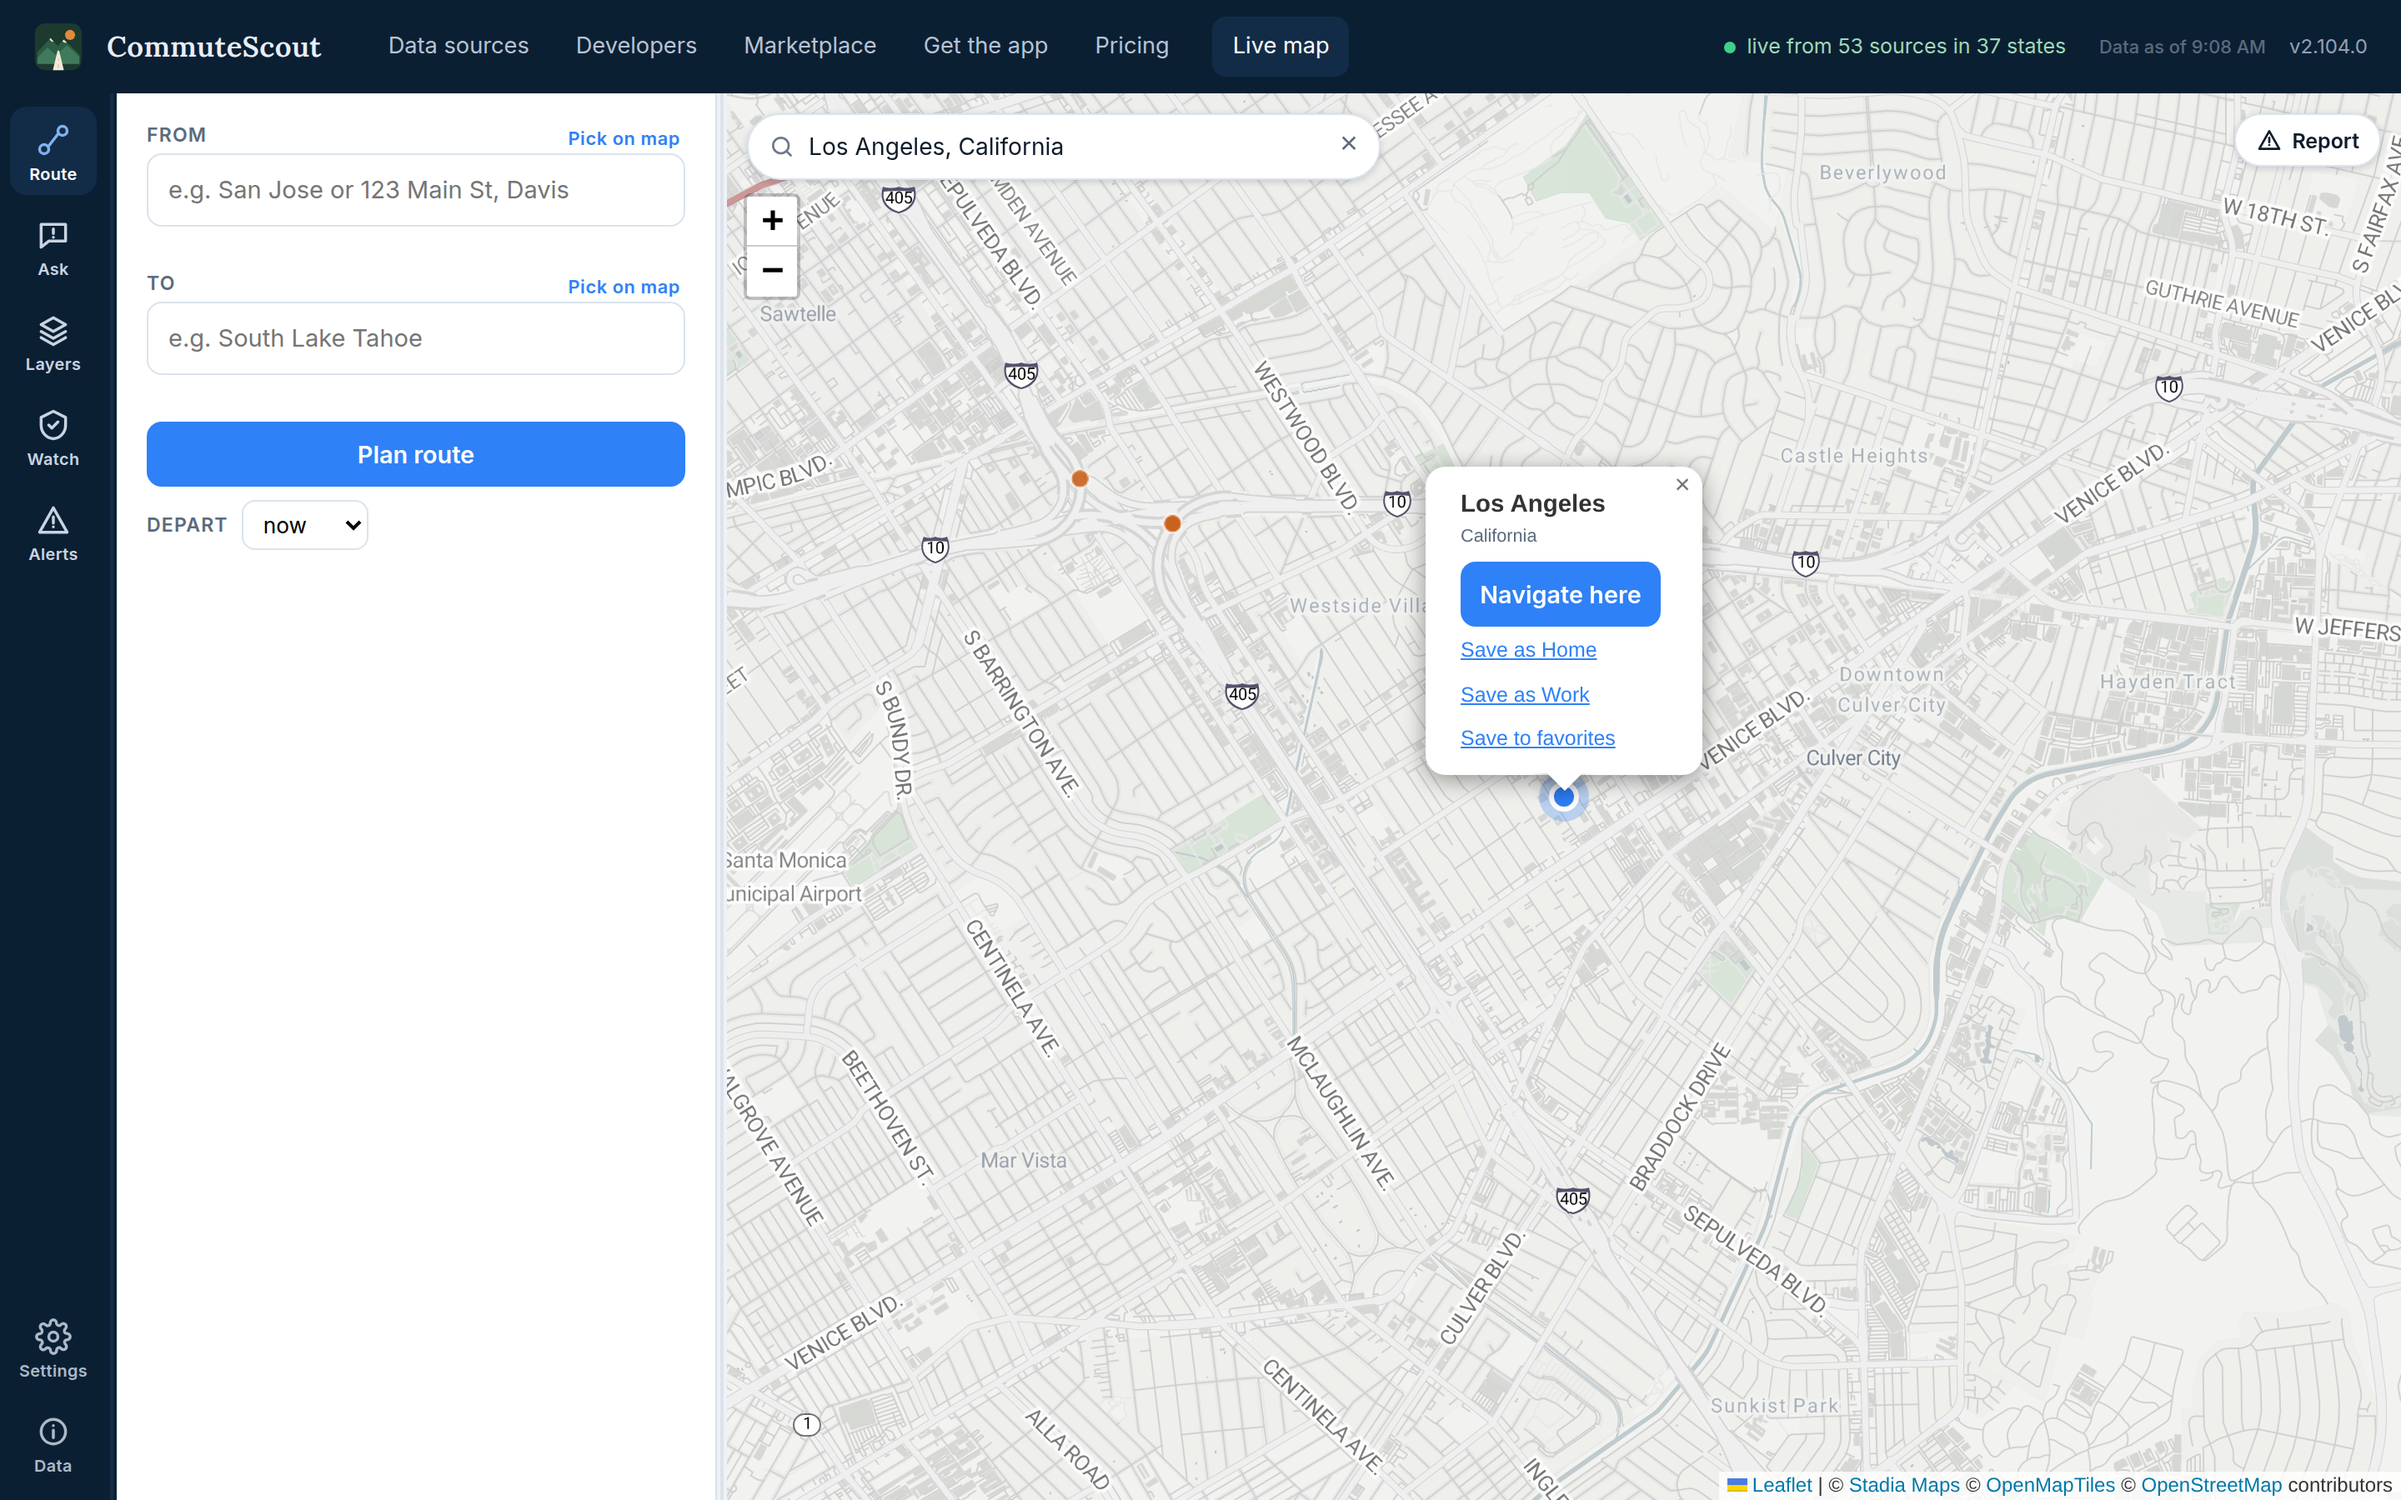
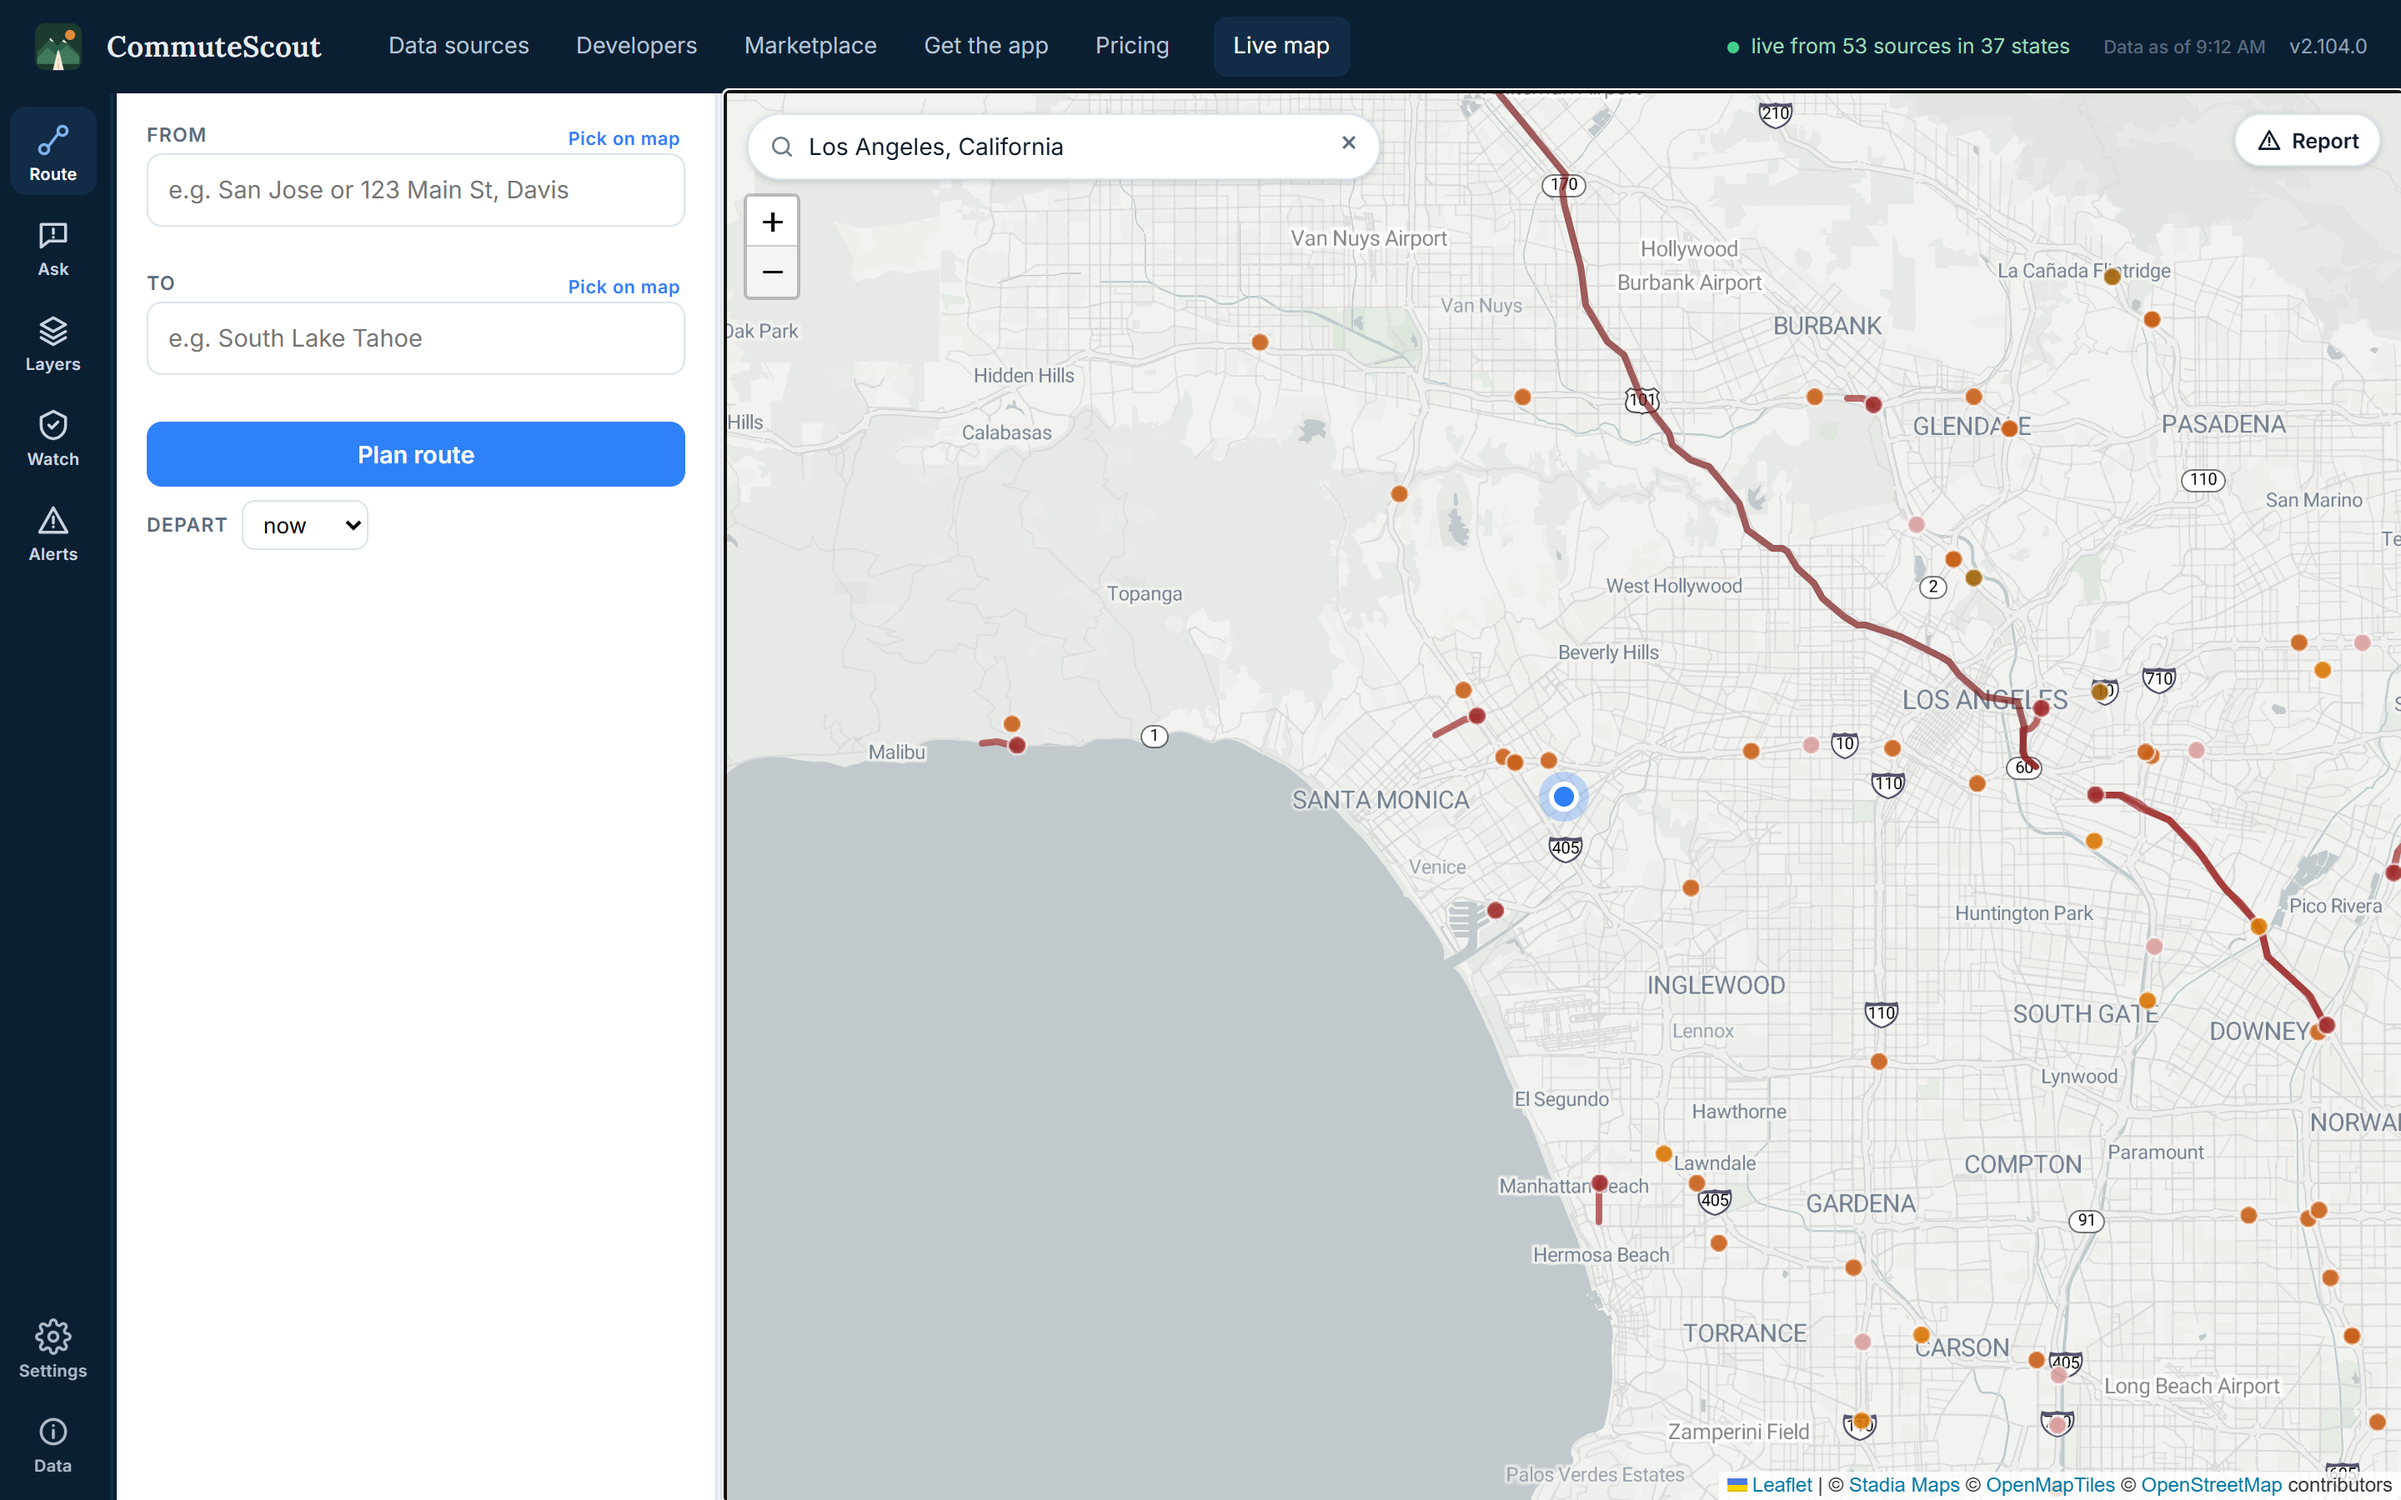
docs: reframe the two map shots and show the marketplace in the README
The map and Open Graph shots caught a search result card over the
middle of the view at street-level zoom, where a metro's worth of
incidents is two or three dots. Retaken framed on the metro with the
card closed. The README gains a marketplace and a developer page cell,
neither of which it had an image for.

diff --git a/README.md b/README.md
@@ -93,6 +93,11 @@ it as a tool instead of guessing about traffic.
     <td width="34%"><img src="docs/shots/answer.png" alt="An AI answer about a drive, with live speeds and conditions"><br><sub><b>Ask about it.</b> One tap on a suggested question; the answer reads the live feeds.</sub></td>
     <td width="32%"><img src="docs/shots/map.png" alt="The map with per-layer filters and live counts"><br><sub><b>Or just look.</b> Every layer toggleable, from full closures to blank signs.</sub></td>
   </tr>
+  <tr>
+    <td width="34%"><img src="docs/shots/marketplace.png" alt="The plugin marketplace, one card per plugin, with coverage, what it reports, and how far it has been vetted"><br><sub><b>Add a plugin.</b> Each card says what it covers, what it reports, and whether anyone has reviewed it.</sub></td>
+    <td width="34%"><img src="docs/shots/developers.png" alt="The developer page: the ten tools, the error envelope, and the rate limits"><br><sub><b>Or build on it.</b> Ten tools over plain HTTP, one error envelope, published rate limits.</sub></td>
+    <td width="32%"></td>
+  </tr>
 </table>
 
 ## Coverage
